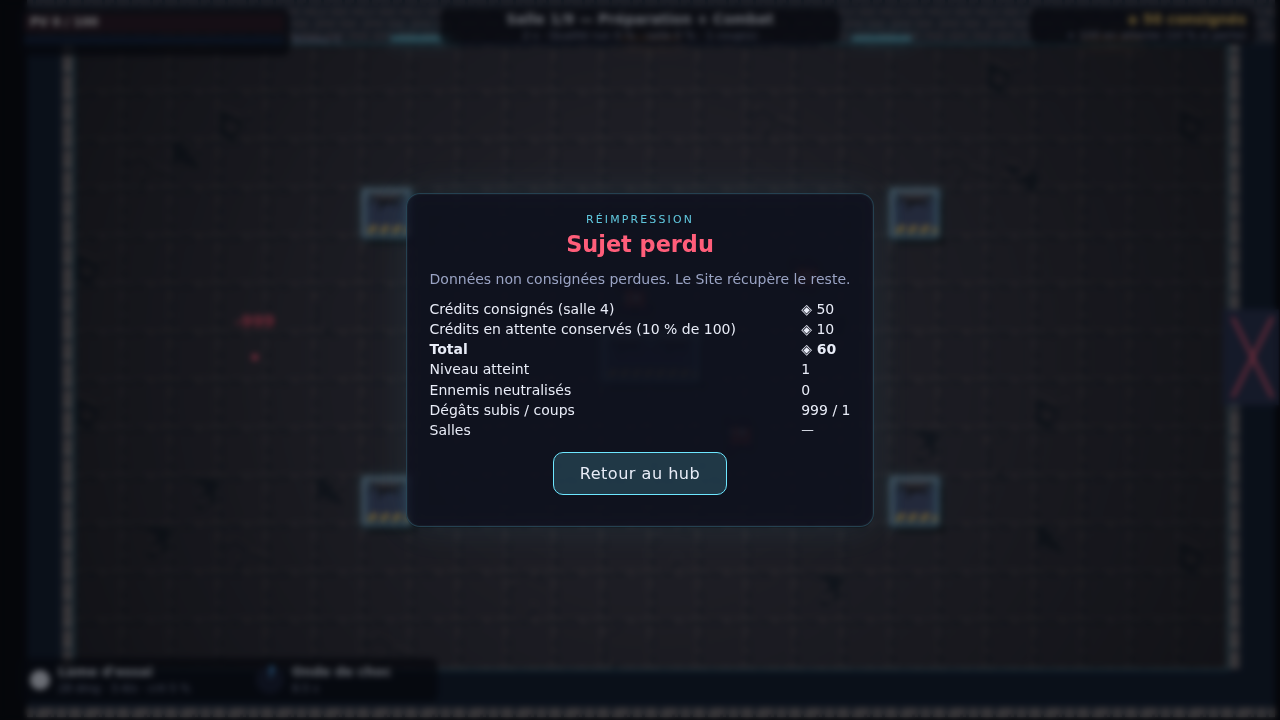
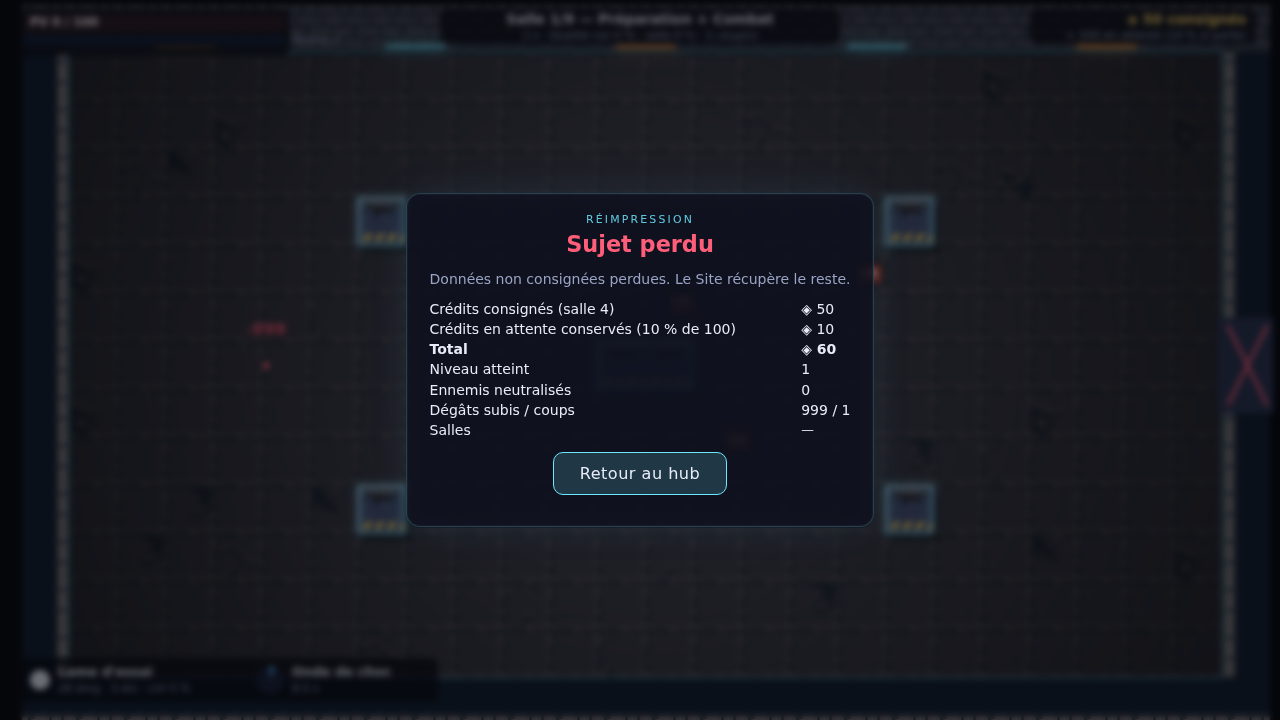
Sons de level-up, fin de salle, coffre et bouclier retravaillés (mallets, cordes pincées) ; limiteur remplacé par un écrêtage doux
- layerMallet / layerPluck : timbres bois et cordes à la place des nappes en
  dents de scie ; levelUp = arpège de mallets montant + coup grave, roomClear =
  deux cordes pincées + mallet, coffre et bouclier adoucis
- Dans Chrome, deux DynamicsCompressor en série coûtaient ≈ 12 dB sur tous les
  effets : le limiteur devient un écrêtage tanh, niveaux re-mesurés en offline
- Tirs et coups ramenés au niveau visé (≈ −6 dB sous les événements)

Claude-Session: https://claude.ai/code/session_0129Q3hL1mabd7EuikKjVJPW

diff --git a/index.html b/index.html
@@ -652,8 +652,9 @@ const BALANCE = {
     /* Routage : effets → compresseur (colle les SFX entre eux) → master ; musique → master directement. La musique ne passe
        JAMAIS par le compresseur des effets : avec une piste MP3 forte, chaque transitoire d'effet (ramassage, survol) faisait
        chuter le gain en 3 ms sur la musique aussi = clic audible à chaque son, perçu comme un crépitement. */
-    limiter = ctx.createDynamicsCompressor();   // sécurité en sortie : seuls les vrais pics sont rabotés, relâchement lent (pas de distorsion des basses)
-    limiter.threshold.value = -1.5; limiter.knee.value = 1; limiter.ratio.value = 20; limiter.attack.value = 0.002; limiter.release.value = 0.25;
+    /* Sécurité en sortie : écrêtage doux (tanh), pas un second compresseur — dans Chrome, deux DynamicsCompressor en série font
+       chuter tout le son d'environ 12 dB (mesuré en rendu offline). Linéaire pour les niveaux normaux, arrondit seulement les vrais pics. */
+    limiter = ctx.createWaveShaper(); limiter.curve = tanhCurve(1.15); limiter.oversample = 'none';
     master.connect(limiter); limiter.connect(ctx.destination);
 
     sfxBus = ctx.createGain(); sfxBus.gain.value = vol.sfx; sfxBus.connect(comp); comp.connect(master);
@@ -838,6 +839,22 @@ const BALANCE = {
     return g;
   }
   /** Nappe : 2 dents-de-scie détunées → lowpass résonant balayé → tanh. */
+  /** Mallet : porteur sinus + modulateur inharmonique (bois ≈ ×3,01, métal ≈ ×4,5) à index bref → lowpass → attaque nette, décroissance naturelle. */
+  function layerMallet(v, t, o, f, gain, dur, metal) {
+    const fq = f * o.p; const m = v.fm(fq, fq * (metal ? 4.53 : 3.01), fq * 0.9, t, t + dur + 0.1);
+    sweep(m.idx.gain, t, fq * 0.9, fq * 0.05, dur * 0.35);
+    const lp = v.filter('lowpass', Math.min(9000, fq * 5), 0.8); const g = v.gain(0);
+    v.chain(m.car, lp, g, v.out); perc(g.gain, t, gain * o.g, 0.003, dur);
+    layerClick(v, t, o, Math.min(6000, fq * 3), 4, gain * 0.25, 0.008);
+  }
+  /** Corde pincée : FM ratio 2 à index qui s'éteint vite (comme tempoNote), lowpass qui se referme, petite saturation. */
+  function layerPluck(v, t, o, f, gain, dur) {
+    const fq = f * o.p; const m = v.fm(fq, fq * 2.0, 320, t, t + dur + 0.1);
+    sweep(m.idx.gain, t, 320, 10, dur * 0.4);
+    const lp = v.filter('lowpass', 2800, 1.5); const sh = v.shaper(1.3); const g = v.gain(0);
+    sweep(lp.frequency, t, 2800, 900, dur);
+    v.chain(m.car, lp, sh, g, v.out); perc(g.gain, t, gain * o.g, 0.004, dur);
+  }
   function layerPad(v, t, o, freq, gain, a, hold, r, cutoff0, cutoff1, q, drive) {
     const mix = v.gain(0.3);
     for (const det of [-7, 7]) {
@@ -855,7 +872,7 @@ const BALANCE = {
   /* ------------------------------------------------------------------ */
   /** Trim de niveau par son (équilibrage mesuré en rendu offline : pic visé ≈ 0,15-0,35, boss ≈ 0,6). */
   const LEVELS = {
-    shootBlade: 2.6, shootBow: 1.8, shootBoomerang: 2.4, shootChain: 3.2, shootPistol: 0.75, hitEnemy: 1.3, dash: 2.6, skillTurret: 2,
+    shootBlade: 1.7, shootBow: 1.3, shootBoomerang: 1.7, shootChain: 2.2, shootPistol: 0.5, shootHammer: 0.7, hitEnemy: 0.85, dash: 2, skillTurret: 2,
     pickupXp: 2.4, pickupCoin: 2.4, pickupFragment: 2, trapWarn: 2.4, trapSpike: 3.5, uiHover: 3, uiClick: 2.4, uiConfirm: 1.3,
     chestOpen: 1.5, bossRoar: 0.8, playerDie: 0.8, tempoNote: 0.8,   // mix : effets répétitifs (tirs, coups, ramassages, interface) ≈ −6 dB sous la musique, impacts rares au niveau
   };
@@ -1132,8 +1149,8 @@ const BALANCE = {
   // skillShield : bouclier → nappe détunée lowpass balayé 400→1800→600 Hz saturée + shimmer blanc highpass 6 kHz + grande réverbe.
   def('skillShield', 5, (o, t) => {
     const v = voice(o, 0.9, 5); if (!v) return;
-    layerPad(v, t, o, 220, 0.5, 0.06, 0.3, 0.4, 400, 1800, 3, 1.5);
-    layerPad(v, t, o, 330, 0.3, 0.1, 0.3, 0.4, 300, 1200, 3, 1.5);
+    layerMallet(v, t, o, 220, 0.4, 0.8, true); layerMallet(v, t + 0.05, o, 330, 0.28, 0.9, true);
+    layerPad(v, t, o, 110, 0.22, 0.08, 0.3, 0.4, 250, 700, 1, 1);
     const n = v.noise('white', t, t + 0.7);
     const hp = v.filter('highpass', 6000, 1); const g = v.gain(0);
     v.chain(n, hp, g, v.out); adsr(g.gain, t, 0.18 * o.g, 0.08, 0.1, 0.6, 0.35, 0.3);
@@ -1260,16 +1277,15 @@ const BALANCE = {
   // levelUp : montée → bruit rose lowpass 300→6 kHz sur 0.7 s puis accord de 3 nappes détunées (fondamentale, quinte, octave) saturées + réverbe.
   def('levelUp', 7, (o, t) => {
     const v = voice(o, 2.4, 7); if (!v) return;
-    const n = v.noise('pink', t, t + 1.0);
-    const lp = v.filter('lowpass', 300, 4); const g = v.gain(0);
-    sweep(lp.frequency, t, 300, 6000, 0.7);
-    v.chain(n, lp, g, v.out); adsr(g.gain, t, 0.45 * o.g, 0.1, 0.1, 0.9, 0.7, 0.25);
-    const t2 = t + 0.55;
-    layerPad(v, t2, o, 220, 0.4, 0.12, 0.9, 0.7, 500, 1500, 2, 1.5);
-    layerPad(v, t2 + 0.03, o, 330, 0.3, 0.15, 0.9, 0.7, 500, 1500, 2, 1.5);
-    layerPad(v, t2 + 0.06, o, 440, 0.25, 0.2, 0.9, 0.7, 700, 2000, 2, 1.5);
-    layerClick(v, t2, o, 2500, 4, 0.3, 0.02);
-    v.reverb(0.5);
+    /* souffle qui monte, puis un coup grave qui « pose » l'accord */
+    const n = v.noise('pink', t, t + 1.0); const lp = v.filter('lowpass', 300, 2); const g = v.gain(0);
+    sweep(lp.frequency, t, 300, 5000, 0.6); v.chain(n, lp, g, v.out); adsr(g.gain, t, 0.28 * o.g, 0.1, 0.1, 0.9, 0.5, 0.25);
+    layerThump(v, t + 0.5, o, 80, 42, 0.7, 0.35, 3);
+    /* arpège de mallets : fondamentale, quinte, octave, tierce à l'octave — un temps musical bref entre chaque */
+    const base = 220; const steps = [[0, 1], [0.11, 1.5], [0.22, 2], [0.33, key.mode === 'major' ? 2.52 : 2.38]];
+    for (const [dt, r] of steps) layerMallet(v, t + 0.5 + dt, o, base * r, 0.42, 0.9, false);
+    layerMallet(v, t + 0.5 + 0.44, o, base * 4, 0.22, 1.2, true);   // petite cloche métallique tout en haut
+    v.reverb(0.55);
   });
 
   /* ==================================================================
@@ -1290,7 +1306,7 @@ const BALANCE = {
     sweep(bp.frequency, t + 0.05, 400 * o.p, 950 * o.p, 0.35);
     v.noiseMod('white', 30, 0.5, am.gain, t + 0.05, t + 0.45);
     v.chain(s, bp, am, sh, g, v.out); adsr(g.gain, t + 0.05, 0.25 * o.g, 0.02, 0.05, 0.9, 0.3, 0.08);
-    layerPad(v, t + 0.3, o, 165, 0.3, 0.15, 0.4, 0.5, 300, 900, 2, 1.5);
+    layerPluck(v, t + 0.3, o, 165, 0.35, 0.6); layerMallet(v, t + 0.42, o, 330, 0.25, 0.8, false);
     v.reverb(0.35);
   });
 
@@ -1421,15 +1437,12 @@ const BALANCE = {
   // roomClear : résolution brève → 2 nappes (quinte puis octave) lowpass saturées + gonflement rose + réverbe.
   def('roomClear', 6, (o, t) => {
     const v = voice(o, 1.6, 6); if (!v) return;
-    layerPad(v, t, o, 196, 0.35, 0.05, 0.5, 0.5, 600, 1300, 2, 1.5);
-    layerPad(v, t + 0.18, o, 294, 0.3, 0.05, 0.4, 0.5, 700, 1600, 2, 1.5);
-    layerPad(v, t + 0.36, o, 392, 0.3, 0.08, 0.5, 0.6, 800, 2200, 2, 1.5);
-    const n = v.noise('pink', t, t + 1.2);
-    const lp = v.filter('lowpass', 800, 1.5); const g = v.gain(0);
-    sweep(lp.frequency, t, 800, 4000, 0.6);
-    v.chain(n, lp, g, v.out); adsr(g.gain, t, 0.25 * o.g, 0.3, 0.1, 0.8, 0.6, 0.4);
-    layerClick(v, t, o, 2200, 4, 0.2, 0.02);
-    layerClick(v, t + 0.36, o, 3200, 4, 0.2, 0.02);
+    layerPluck(v, t, o, 196, 0.45, 0.7);
+    layerPluck(v, t + 0.17, o, 294, 0.4, 0.7);
+    layerMallet(v, t + 0.34, o, 392, 0.35, 1.1, false);
+    layerThump(v, t + 0.34, o, 70, 40, 0.45, 0.3, 3);
+    const n = v.noise('pink', t, t + 1.2); const lp = v.filter('lowpass', 800, 1.5); const g = v.gain(0);
+    sweep(lp.frequency, t, 800, 4000, 0.6); v.chain(n, lp, g, v.out); adsr(g.gain, t, 0.18 * o.g, 0.3, 0.1, 0.8, 0.5, 0.4);
     v.reverb(0.45);
   });
 

diff --git a/dev/AudioEngine.js b/dev/AudioEngine.js
@@ -164,8 +164,9 @@
     /* Routage : effets → compresseur (colle les SFX entre eux) → master ; musique → master directement. La musique ne passe
        JAMAIS par le compresseur des effets : avec une piste MP3 forte, chaque transitoire d'effet (ramassage, survol) faisait
        chuter le gain en 3 ms sur la musique aussi = clic audible à chaque son, perçu comme un crépitement. */
-    limiter = ctx.createDynamicsCompressor();   // sécurité en sortie : seuls les vrais pics sont rabotés, relâchement lent (pas de distorsion des basses)
-    limiter.threshold.value = -1.5; limiter.knee.value = 1; limiter.ratio.value = 20; limiter.attack.value = 0.002; limiter.release.value = 0.25;
+    /* Sécurité en sortie : écrêtage doux (tanh), pas un second compresseur — dans Chrome, deux DynamicsCompressor en série font
+       chuter tout le son d'environ 12 dB (mesuré en rendu offline). Linéaire pour les niveaux normaux, arrondit seulement les vrais pics. */
+    limiter = ctx.createWaveShaper(); limiter.curve = tanhCurve(1.15); limiter.oversample = 'none';
     master.connect(limiter); limiter.connect(ctx.destination);
 
     sfxBus = ctx.createGain(); sfxBus.gain.value = vol.sfx; sfxBus.connect(comp); comp.connect(master);
@@ -350,6 +351,22 @@
     return g;
   }
   /** Nappe : 2 dents-de-scie détunées → lowpass résonant balayé → tanh. */
+  /** Mallet : porteur sinus + modulateur inharmonique (bois ≈ ×3,01, métal ≈ ×4,5) à index bref → lowpass → attaque nette, décroissance naturelle. */
+  function layerMallet(v, t, o, f, gain, dur, metal) {
+    const fq = f * o.p; const m = v.fm(fq, fq * (metal ? 4.53 : 3.01), fq * 0.9, t, t + dur + 0.1);
+    sweep(m.idx.gain, t, fq * 0.9, fq * 0.05, dur * 0.35);
+    const lp = v.filter('lowpass', Math.min(9000, fq * 5), 0.8); const g = v.gain(0);
+    v.chain(m.car, lp, g, v.out); perc(g.gain, t, gain * o.g, 0.003, dur);
+    layerClick(v, t, o, Math.min(6000, fq * 3), 4, gain * 0.25, 0.008);
+  }
+  /** Corde pincée : FM ratio 2 à index qui s'éteint vite (comme tempoNote), lowpass qui se referme, petite saturation. */
+  function layerPluck(v, t, o, f, gain, dur) {
+    const fq = f * o.p; const m = v.fm(fq, fq * 2.0, 320, t, t + dur + 0.1);
+    sweep(m.idx.gain, t, 320, 10, dur * 0.4);
+    const lp = v.filter('lowpass', 2800, 1.5); const sh = v.shaper(1.3); const g = v.gain(0);
+    sweep(lp.frequency, t, 2800, 900, dur);
+    v.chain(m.car, lp, sh, g, v.out); perc(g.gain, t, gain * o.g, 0.004, dur);
+  }
   function layerPad(v, t, o, freq, gain, a, hold, r, cutoff0, cutoff1, q, drive) {
     const mix = v.gain(0.3);
     for (const det of [-7, 7]) {
@@ -367,7 +384,7 @@
   /* ------------------------------------------------------------------ */
   /** Trim de niveau par son (équilibrage mesuré en rendu offline : pic visé ≈ 0,15-0,35, boss ≈ 0,6). */
   const LEVELS = {
-    shootBlade: 2.6, shootBow: 1.8, shootBoomerang: 2.4, shootChain: 3.2, shootPistol: 0.75, hitEnemy: 1.3, dash: 2.6, skillTurret: 2,
+    shootBlade: 1.7, shootBow: 1.3, shootBoomerang: 1.7, shootChain: 2.2, shootPistol: 0.5, shootHammer: 0.7, hitEnemy: 0.85, dash: 2, skillTurret: 2,
     pickupXp: 2.4, pickupCoin: 2.4, pickupFragment: 2, trapWarn: 2.4, trapSpike: 3.5, uiHover: 3, uiClick: 2.4, uiConfirm: 1.3,
     chestOpen: 1.5, bossRoar: 0.8, playerDie: 0.8, tempoNote: 0.8,   // mix : effets répétitifs (tirs, coups, ramassages, interface) ≈ −6 dB sous la musique, impacts rares au niveau
   };
@@ -644,8 +661,8 @@
   // skillShield : bouclier → nappe détunée lowpass balayé 400→1800→600 Hz saturée + shimmer blanc highpass 6 kHz + grande réverbe.
   def('skillShield', 5, (o, t) => {
     const v = voice(o, 0.9, 5); if (!v) return;
-    layerPad(v, t, o, 220, 0.5, 0.06, 0.3, 0.4, 400, 1800, 3, 1.5);
-    layerPad(v, t, o, 330, 0.3, 0.1, 0.3, 0.4, 300, 1200, 3, 1.5);
+    layerMallet(v, t, o, 220, 0.4, 0.8, true); layerMallet(v, t + 0.05, o, 330, 0.28, 0.9, true);
+    layerPad(v, t, o, 110, 0.22, 0.08, 0.3, 0.4, 250, 700, 1, 1);
     const n = v.noise('white', t, t + 0.7);
     const hp = v.filter('highpass', 6000, 1); const g = v.gain(0);
     v.chain(n, hp, g, v.out); adsr(g.gain, t, 0.18 * o.g, 0.08, 0.1, 0.6, 0.35, 0.3);
@@ -772,16 +789,15 @@
   // levelUp : montée → bruit rose lowpass 300→6 kHz sur 0.7 s puis accord de 3 nappes détunées (fondamentale, quinte, octave) saturées + réverbe.
   def('levelUp', 7, (o, t) => {
     const v = voice(o, 2.4, 7); if (!v) return;
-    const n = v.noise('pink', t, t + 1.0);
-    const lp = v.filter('lowpass', 300, 4); const g = v.gain(0);
-    sweep(lp.frequency, t, 300, 6000, 0.7);
-    v.chain(n, lp, g, v.out); adsr(g.gain, t, 0.45 * o.g, 0.1, 0.1, 0.9, 0.7, 0.25);
-    const t2 = t + 0.55;
-    layerPad(v, t2, o, 220, 0.4, 0.12, 0.9, 0.7, 500, 1500, 2, 1.5);
-    layerPad(v, t2 + 0.03, o, 330, 0.3, 0.15, 0.9, 0.7, 500, 1500, 2, 1.5);
-    layerPad(v, t2 + 0.06, o, 440, 0.25, 0.2, 0.9, 0.7, 700, 2000, 2, 1.5);
-    layerClick(v, t2, o, 2500, 4, 0.3, 0.02);
-    v.reverb(0.5);
+    /* souffle qui monte, puis un coup grave qui « pose » l'accord */
+    const n = v.noise('pink', t, t + 1.0); const lp = v.filter('lowpass', 300, 2); const g = v.gain(0);
+    sweep(lp.frequency, t, 300, 5000, 0.6); v.chain(n, lp, g, v.out); adsr(g.gain, t, 0.28 * o.g, 0.1, 0.1, 0.9, 0.5, 0.25);
+    layerThump(v, t + 0.5, o, 80, 42, 0.7, 0.35, 3);
+    /* arpège de mallets : fondamentale, quinte, octave, tierce à l'octave — un temps musical bref entre chaque */
+    const base = 220; const steps = [[0, 1], [0.11, 1.5], [0.22, 2], [0.33, key.mode === 'major' ? 2.52 : 2.38]];
+    for (const [dt, r] of steps) layerMallet(v, t + 0.5 + dt, o, base * r, 0.42, 0.9, false);
+    layerMallet(v, t + 0.5 + 0.44, o, base * 4, 0.22, 1.2, true);   // petite cloche métallique tout en haut
+    v.reverb(0.55);
   });
 
   /* ==================================================================
@@ -802,7 +818,7 @@
     sweep(bp.frequency, t + 0.05, 400 * o.p, 950 * o.p, 0.35);
     v.noiseMod('white', 30, 0.5, am.gain, t + 0.05, t + 0.45);
     v.chain(s, bp, am, sh, g, v.out); adsr(g.gain, t + 0.05, 0.25 * o.g, 0.02, 0.05, 0.9, 0.3, 0.08);
-    layerPad(v, t + 0.3, o, 165, 0.3, 0.15, 0.4, 0.5, 300, 900, 2, 1.5);
+    layerPluck(v, t + 0.3, o, 165, 0.35, 0.6); layerMallet(v, t + 0.42, o, 330, 0.25, 0.8, false);
     v.reverb(0.35);
   });
 
@@ -933,15 +949,12 @@
   // roomClear : résolution brève → 2 nappes (quinte puis octave) lowpass saturées + gonflement rose + réverbe.
   def('roomClear', 6, (o, t) => {
     const v = voice(o, 1.6, 6); if (!v) return;
-    layerPad(v, t, o, 196, 0.35, 0.05, 0.5, 0.5, 600, 1300, 2, 1.5);
-    layerPad(v, t + 0.18, o, 294, 0.3, 0.05, 0.4, 0.5, 700, 1600, 2, 1.5);
-    layerPad(v, t + 0.36, o, 392, 0.3, 0.08, 0.5, 0.6, 800, 2200, 2, 1.5);
-    const n = v.noise('pink', t, t + 1.2);
-    const lp = v.filter('lowpass', 800, 1.5); const g = v.gain(0);
-    sweep(lp.frequency, t, 800, 4000, 0.6);
-    v.chain(n, lp, g, v.out); adsr(g.gain, t, 0.25 * o.g, 0.3, 0.1, 0.8, 0.6, 0.4);
-    layerClick(v, t, o, 2200, 4, 0.2, 0.02);
-    layerClick(v, t + 0.36, o, 3200, 4, 0.2, 0.02);
+    layerPluck(v, t, o, 196, 0.45, 0.7);
+    layerPluck(v, t + 0.17, o, 294, 0.4, 0.7);
+    layerMallet(v, t + 0.34, o, 392, 0.35, 1.1, false);
+    layerThump(v, t + 0.34, o, 70, 40, 0.45, 0.3, 3);
+    const n = v.noise('pink', t, t + 1.2); const lp = v.filter('lowpass', 800, 1.5); const g = v.gain(0);
+    sweep(lp.frequency, t, 800, 4000, 0.6); v.chain(n, lp, g, v.out); adsr(g.gain, t, 0.18 * o.g, 0.3, 0.1, 0.8, 0.5, 0.4);
     v.reverb(0.45);
   });
 
